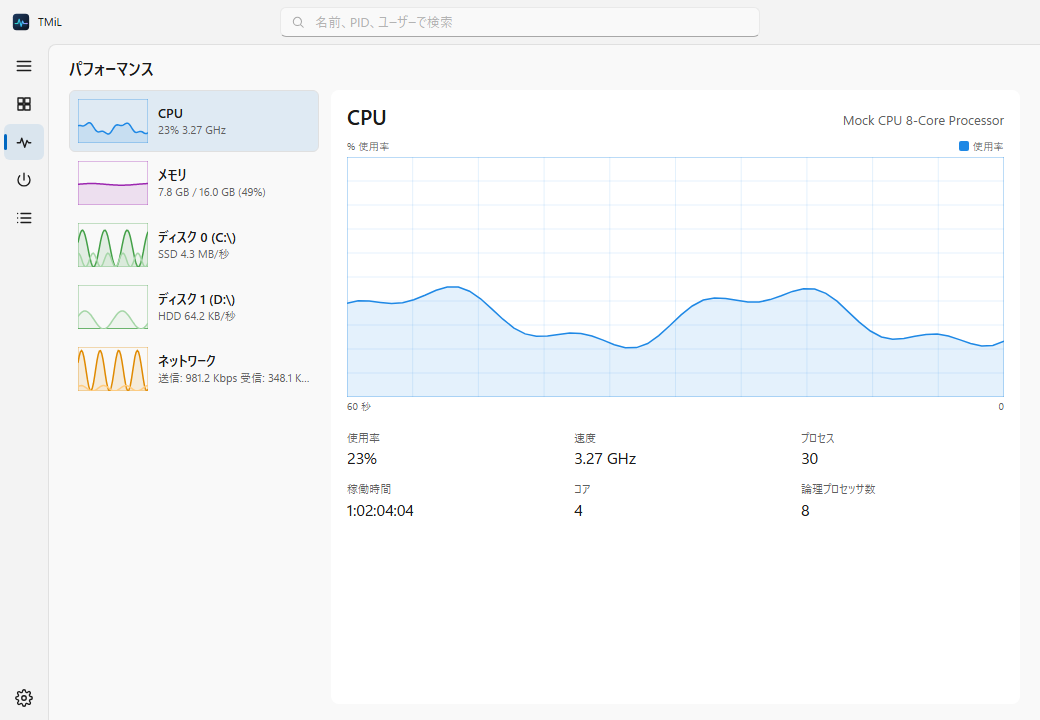
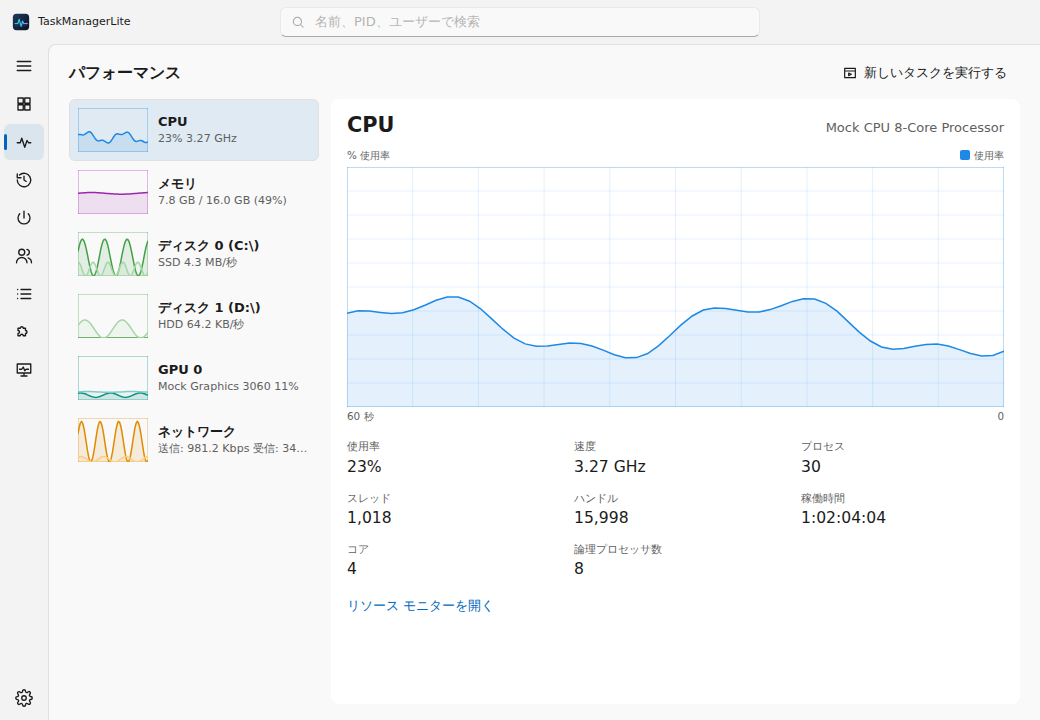
docs: README の画面の画像を新しい画面に差し替え、リソース モニターを足す

diff --git a/README.md b/README.md
@@ -31,9 +31,9 @@
 
 ## 画面
 
-|                                   パフォーマンス                                   |                               ダーク テーマ                                |
-| :--------------------------------------------------------------------------------: | :------------------------------------------------------------------------: |
-| <img src="docs/images/performance-light.png" width="380" alt="パフォーマンス画面"> | <img src="docs/images/processes-dark.png" width="380" alt="ダーク テーマ"> |
+|                                   パフォーマンス                                   |                                リソース モニター                                 |                               ダーク テーマ                                |
+| :--------------------------------------------------------------------------------: | :------------------------------------------------------------------------------: | :------------------------------------------------------------------------: |
+| <img src="docs/images/performance-light.png" width="250" alt="パフォーマンス画面"> | <img src="docs/images/resmon-light.png" width="250" alt="リソース モニター画面"> | <img src="docs/images/processes-dark.png" width="250" alt="ダーク テーマ"> |
 
 ## できること
 
